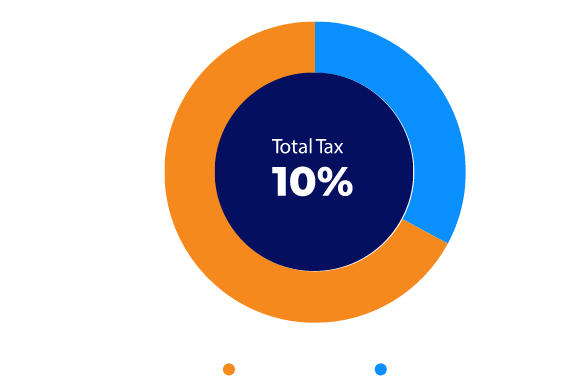
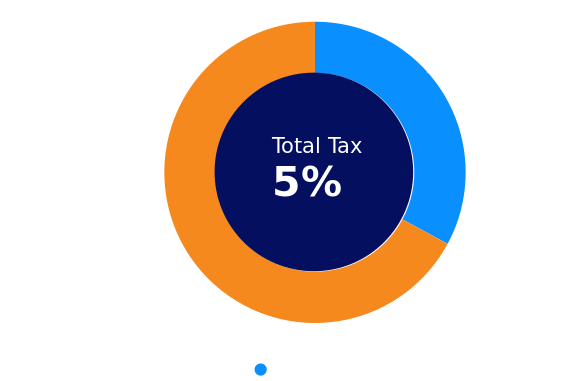
fixes and changes

diff --git a/src/data/faq.js b/src/data/faq.js
@@ -1,30 +1,50 @@
 export const faqs = [
     {
-        q: "What is DigitsDAO?",
-        a: `<p>A detailed project overview of DigitsDAO can be found in this medium article from 2022 which was written during the time of launch.</p> <p><a href="https://digitsdao.medium.com/introducing-digits-dao-defi-as-a-service-293f7867e567" target="_blank">https://digitsdao.medium.com/introducing-digits-dao-defi-as-a-service-293f7867e567</a></p>`,
+        q: "What is Digitsdao?",
+        a: `<p>A detailed project overview of Digitsdao can be find from this medium article from 2022 which was written during the time of lauch.</p> 
+            <p><a href="https://digitsdao.medium.com/introducing-digits-dao-defi-as-a-service-293f7867e567" target="_blank" rel="noreferrer noopener">https://digitsdao.medium.com/introducing-digits-dao-defi-as-a-service-293f7867e567</a></p>`,
     },
     {
         q: "What is $DIGITS token?",
-        a: `<p>A detailed project overview of DigitsDAO can be found in this medium article from 2022 which was written during the time of launch.</p>`,
+        a: `<p>The $DIGITS token represents a claim to the treasury which is actively managed by a team of well experienced traders.</p>`,
     },
     {
-        q: "What is the website for DigitsDAO?",
-        a: `<p>A detailed project overview of DigitsDAO can be found in this medium article from 2022 which was written during the time of launch.</p>`,
+        q: "What is the website for Digitsdao?",
+        a: `<p><a href="https://digitsdao.finance/" target="_blank" rel="noreferrer noopener">https://digitsdao.finance/</a/></p>`,
     },  
     {
         q: "What is the total supply of $DIGITS?",
-        a: `<p>A detailed project overview of DigitsDAO can be found in this medium article from 2022 which was written during the time of launch.</p>`,
+        a: `<p>At the launch DIGITS had a total supply of 1 Billion tokens. The current supply of $DIGITS is 790,737,270. Rest of the tokens were burned during various occasions.</p>`,
     },  
     {
-        q: "Where can I find the Chart for DIGITS?",
-        a: `<p>A detailed project overview of DigitsDAO can be found in this medium article from 2022 which was written during the time of launch.</p>`,
+        q: "Where can i find the Chart for DIGITS?",
+        a: `<p><a href="https://dexscreener.com/ethereum/0x24825d0ed8baa195f360e9084fa0e508082c4e3e" target="_blank" rel="noreferrer noopener">https://dexscreener.com/ethereum/0x24825d0ed8baa195f360e9084fa0e508082c4e3e</a></p>`,
     },  
     {
-        q: "Where can I buy $DIGITS?",
-        a: `<p>A detailed project overview of DigitsDAO can be found in this medium article from 2022 which was written during the time of launch.</p>`,
+        q: "Where can i buy $DIGITS?",
+        a: `<p>You can use this link to buy $DIGITS- </p>
+            <p><a href="https://app.uniswap.org/#/swap?outputCurrency=0xbe56ab825fd35678a32dc35bc4eb17e238e1404f" target="_blank" rel="noreferrer noopener">https://app.uniswap.org/#/swap?outputCurrency=0xbe56ab825fd35678a32dc35bc4eb17e238e1404f</a></p>`,
     },  
     {
         q: "Is the DAO Treasury public?",
-        a: `<p>A detailed project overview of DigitsDAO can be found in this medium article from 2022 which was written during the time of launch.</p>`,
+        a: `<p>Yes the DAO Treasury is public and all the transactions can be viewed on chain.</p>
+            <p>Here are the links to the DAO Treasury</p>
+            <p>Wallet: Digitsdao.eth</p>
+            <p><a href="https://zapper.fi/account/digitsdao.eth" target="_blank" rel="noreferrer noopener">https://zapper.fi/account/digitsdao.eth</a></p>
+            <p>Treasury wallet ID: 0x0c1a3e4e1c3da4c89582dfa1afa87a1853d7f78f</p>
+            <p>Team wallet: 0x476cfb80ff7BAeDbAcaC55661efbfB20c5558D93</p>`,
     },  
+    {
+        q: "How can we track the treasury trades?",
+        a: `<p>You can track the treasury actions on chain or you can check the spread sheet the team maintains for which link can be find here</p>
+            <p><a href="https://docs.google.com/spreadsheets/d/1NngZ0J207UgKg_u3otzU_pTL6cBRRbmdmpmnEHJSXec/edit?usp=sharing" target="_blank" rel="noreferrer noopener">https://docs.google.com/spreadsheets/d/1NngZ0J207UgKg_u3otzU_pTL6cBRRbmdmpmnEHJSXec/edit?usp=sharing</a></p>`,
+    },
+    {
+        q: "What are the benefits for DIGITS holders?",
+        a: `<p>DIGITS holders can claim various roles in Digitsdao discord depending on the amount of DIGITS they hold. The roles are described below.</p>
+            <p>Members holding 10k $DIGITS-Consigliere: Trade thesis will be shared in this channel on request only after Digits DAO has sold its position.</p>
+            <p>Members holding 1 Million $DIGITS-Mob Boss: This channel will receive trade thesis Alpha upon request, but will be delayed to when my time permits. This could be a few hours or a day after entry, and still has to be requested.</p>
+            <p>Members holding 5 Million $DIGITS-Godfather: Channel will receive trade thesis Alpha shared as soon as possible directly after the DAOs position is filled, and it will be shared automatically in this channel without needing to be requested moving forward.</p>
+            <p>Everything shared in the DigitsDAO discord is not financial advice and is for educational purposes only. If you take a trade or an investment it is your responsibility, and myself as well as the entire Digits DAO team will not be held responsible for your actions.</p>`,
+    },
 ];

diff --git a/src/components/button.js b/src/components/button.js
@@ -1,4 +1,5 @@
-import React from "react";
+// import React from "react";
+import Link from "next/link";
 
 export default function Button({
     children,
@@ -6,23 +7,47 @@ export default function Button({
     disabled,
     type,
     size,
+    href,
     className,
     ...props
 }) {
-  let variantClass;
-  switch(type){
-    case 'green': variantClass='bg-green border-green'; break;
-    case 'light-pink': variantClass='bg-light-pink border-light-pink'; break;
-  }
-    return (
-        <button
-            {...props}
-            disabled={disabled}
-            className={`text-15 font-bold text-dark ${size === "sm" ? `py-1 px-4` : `py-2 px-6`} ${
-                rounded ? `rounded-full` : `rounded`
-            } ${className} ${variantClass}`}
-        >
-            {children}
-        </button>
-    );
+    let variantClass;
+    switch (type) {
+        case "green":
+            variantClass = "bg-green border-green";
+            break;
+        case "light-pink":
+            variantClass = "bg-light-pink border-light-pink";
+            break;
+    }
+    if (href) {
+        return (
+            <Link
+                {...props}
+                href={href}
+                disabled={disabled}
+                className={`text-15 font-bold text-dark ${
+                    size === "sm" ? `py-1 px-4` : `py-2 px-6`
+                } ${
+                    rounded ? `rounded-full` : `rounded`
+                } ${className} ${variantClass}`}
+            >
+                {children}
+            </Link>
+        );
+    } else {
+        return (
+            <button
+                {...props}
+                disabled={disabled}
+                className={`text-15 font-bold text-dark ${
+                    size === "sm" ? `py-1 px-4` : `py-2 px-6`
+                } ${
+                    rounded ? `rounded-full` : `rounded`
+                } ${className} ${variantClass}`}
+            >
+                {children}
+            </button>
+        );
+    }
 }

diff --git a/src/components/treasury.js b/src/components/treasury.js
@@ -10,7 +10,7 @@ export default function Treasury(props) {
         treasuryFromDate,
         treasuryToPrice,
         treasuryToDate,
-        treasuryDiffrence,
+        // treasuryDiffrence,
         treasuryPercentage,
     } = useTreasury(props?.treasury);
     return (
@@ -36,7 +36,7 @@ export default function Treasury(props) {
                             style={{ width: treasuryPercentage }}
                         ></div>
                         <span className="text-dark-blue font-bold text-13 absolute left-1/2 top-0 leading-8">
-                            {treasuryDiffrence}
+                            {treasuryToPrice}
                         </span>
                     </div>
 
@@ -46,9 +46,12 @@ export default function Treasury(props) {
                     </div>
                 </div>
                 <Button
-                    type="green"
                     rounded
+                    type="green"
+                    target="_blank"
+                    rel="noreferrer noopener"
                     className="inline-flex items-center"
+                    href="https://app.1inch.io/#/1/simple/swap/DAI/0xBE56ab825fD35678A32dc35bc4EB17e238e1404F"
                 >
                     <IconUnicorn className="mr-2 flex-shrink-0 md:text-22 text-18" />
                     Buy Now <ArrowRight className="ml-2 flex-shrink-0" />

diff --git a/src/components/statistics.js b/src/components/statistics.js
@@ -9,9 +9,9 @@ export default function Statistics() {
             <h2 className="md:text-37 text-3xl font-bold text-center mb-8">Our Statistics</h2>
             <div className="grid md:grid-cols-2">
                 <div>
-                    <h3 className="md:text-41 text-3xl font-bold">Tokenomics</h3>
+                    <h3 className="md:text-41 text-3xl font-bold mb-5">Tokenomics</h3>
                     <ul className="list-[square]">
-                        <li className="mb-4">Each buy/sell transaction comes with a 10% tax. This tax is distributed and split between the treasury and reflections.</li>
+                        <li className="mb-4">Each buy/sell transaction comes with a 5% tax. This tax is distributed to the treasury.</li>
                         <li className="mb-4">The treasury is used for farming between different low/medium/high risk cross chain strategies.</li>
                         <li className="mb-4">Discretionary buy backs are performed on the $DIGITS token using treasury profits frequently.</li>
                         <li className="mb-4">Reflections are paid back to holders in DAI (Reducing sell pressure)</li>

diff --git a/src/hooks/useTreasury.js b/src/hooks/useTreasury.js
@@ -1,6 +1,7 @@
 // import { treasury } from "@/data ";
 
 export function useTreasury(treasury) {
+    console.log(treasury);
     const formatter = new Intl.NumberFormat("en-US", {
         style: "currency",
         currency: "USD",
@@ -13,17 +14,17 @@ export function useTreasury(treasury) {
     const treasuryFromDate = treasury?.from?.date;
     const treasuryToPrice = formatter.format(toPrice);
     const treasuryToDate = treasury?.to?.date;
-    const diffrence = toPrice - fromPrice;
-    const treasuryDiffrence = `${diffrence < 0 ? "-" : "+"}${formatter.format(
-        toPrice - fromPrice
-    )}`;
+    // const diffrence = toPrice - fromPrice;
+    // const treasuryDiffrence = `${diffrence < 0 ? "-" : "+"}${formatter.format(
+    //     toPrice - fromPrice
+    // )}`;
     const treasuryPercentage = `${(fromPrice / toPrice) * 100}%`;
     return {
         treasuryFromPrice,
         treasuryFromDate,
         treasuryToPrice,
         treasuryToDate,
-        treasuryDiffrence,
+        // treasuryDiffrence,
         treasuryPercentage,
     };
 }

diff --git a/src/components/layout/header.js b/src/components/layout/header.js
@@ -18,6 +18,8 @@ export default function Header() {
                                 <li key={index}>
                                     <a
                                         href={nav.link}
+                                        target="_blank"
+                                        rel="noreferrer noopener"
                                         className="py-2 px-5 text-15 font-bold block"
                                     >
                                         {nav.label}
@@ -27,9 +29,9 @@ export default function Header() {
                         })}
                     </ul>
                     <SocialNav className="hidden xl:flex" />
-                    <Button className="ml-auto" type="green">
+                    {/* <Button className="ml-auto" type="green">
                         Connect Wallet
-                    </Button>
+                    </Button> */}
                 </div>
             </div>
         </header>

diff --git a/src/app/page.js b/src/app/page.js
@@ -5,11 +5,11 @@ import Statistics from "@/components/statistics";
 import Features from "@/components/features";
 import FAQ from "@/components/faq";
 import RecentTweeks from "@/components/recentTweeks";
-import { getData } from "@/data";
+import { getData, treasury, twitterFeedsIds } from "@/data";
 
 export default async function Home() {
-    const tweets = await getData("twitter");
-    const treasury = await getData("treasury");
+    // const tweets = twitterFeedsIds;
+    // const treasury = await getData("treasury");
     return (
         <main className="">
             <Banner />
@@ -18,7 +18,7 @@ export default async function Home() {
             <Statistics />
             <Features />
             <FAQ />
-            <RecentTweeks tweets={tweets} />
+            <RecentTweeks tweets={twitterFeedsIds} />
         </main>
     );
 }

diff --git a/src/data/navigations.js b/src/data/navigations.js
@@ -1,13 +1,13 @@
 const headerNavs = [
-    { label: "Buy Now", link: "" },
-    { label: "About", link: "" },
-    { label: "Dashboard", link: "" },
-    { label: "Contact Us", link: "" },
+    { label: "Buy Now", link: "https://app.1inch.io/#/1/simple/swap/DAI/0xBE56ab825fD35678A32dc35bc4EB17e238e1404F" },
+    // { label: "About", link: "" },
+    { label: "Dashboard", link: "https://digitsdao.finance/app/" },
+    // { label: "Contact Us", link: "" },
 ];
 
 const socialNav = [
-    { name: "Twitter", link: "", icon: "Twitter" },
-    { name: "Medium", link: "", icon: "Medium" },
+    { name: "Twitter", link: "https://twitter.com/DigitsDao", icon: "Twitter" },
+    { name: "Medium", link: "https://digitsdao.medium.com/", icon: "Medium" },
 ];
 
 const footerNav = [

diff --git a/src/components/banner.js b/src/components/banner.js
@@ -16,9 +16,12 @@ export default function Banner() {
                         and distribute profits back to holders.
                     </p>
                     <Button
-                        type="light-pink"
                         rounded
-                        className="flex items-center"
+                        target="_blank"
+                        type="light-pink"
+                        rel="noreferrer noopener"
+                        className="inline-flex items-center"
+                        href="https://digitsdao.finance/app/"
                     >
                         Dashboard
                         <ArrowRight className="ml-2" />

diff --git a/src/data/index.js b/src/data/index.js
@@ -4,8 +4,8 @@ export const treasury = {
         date: "Feb 09, 2021",
     },
     to: {
-        price: 2691883,
-        date: "Jan 31, 2023",
+        price: 2779120,
+        date: "Sep 31, 2023",
     },
 };
 
